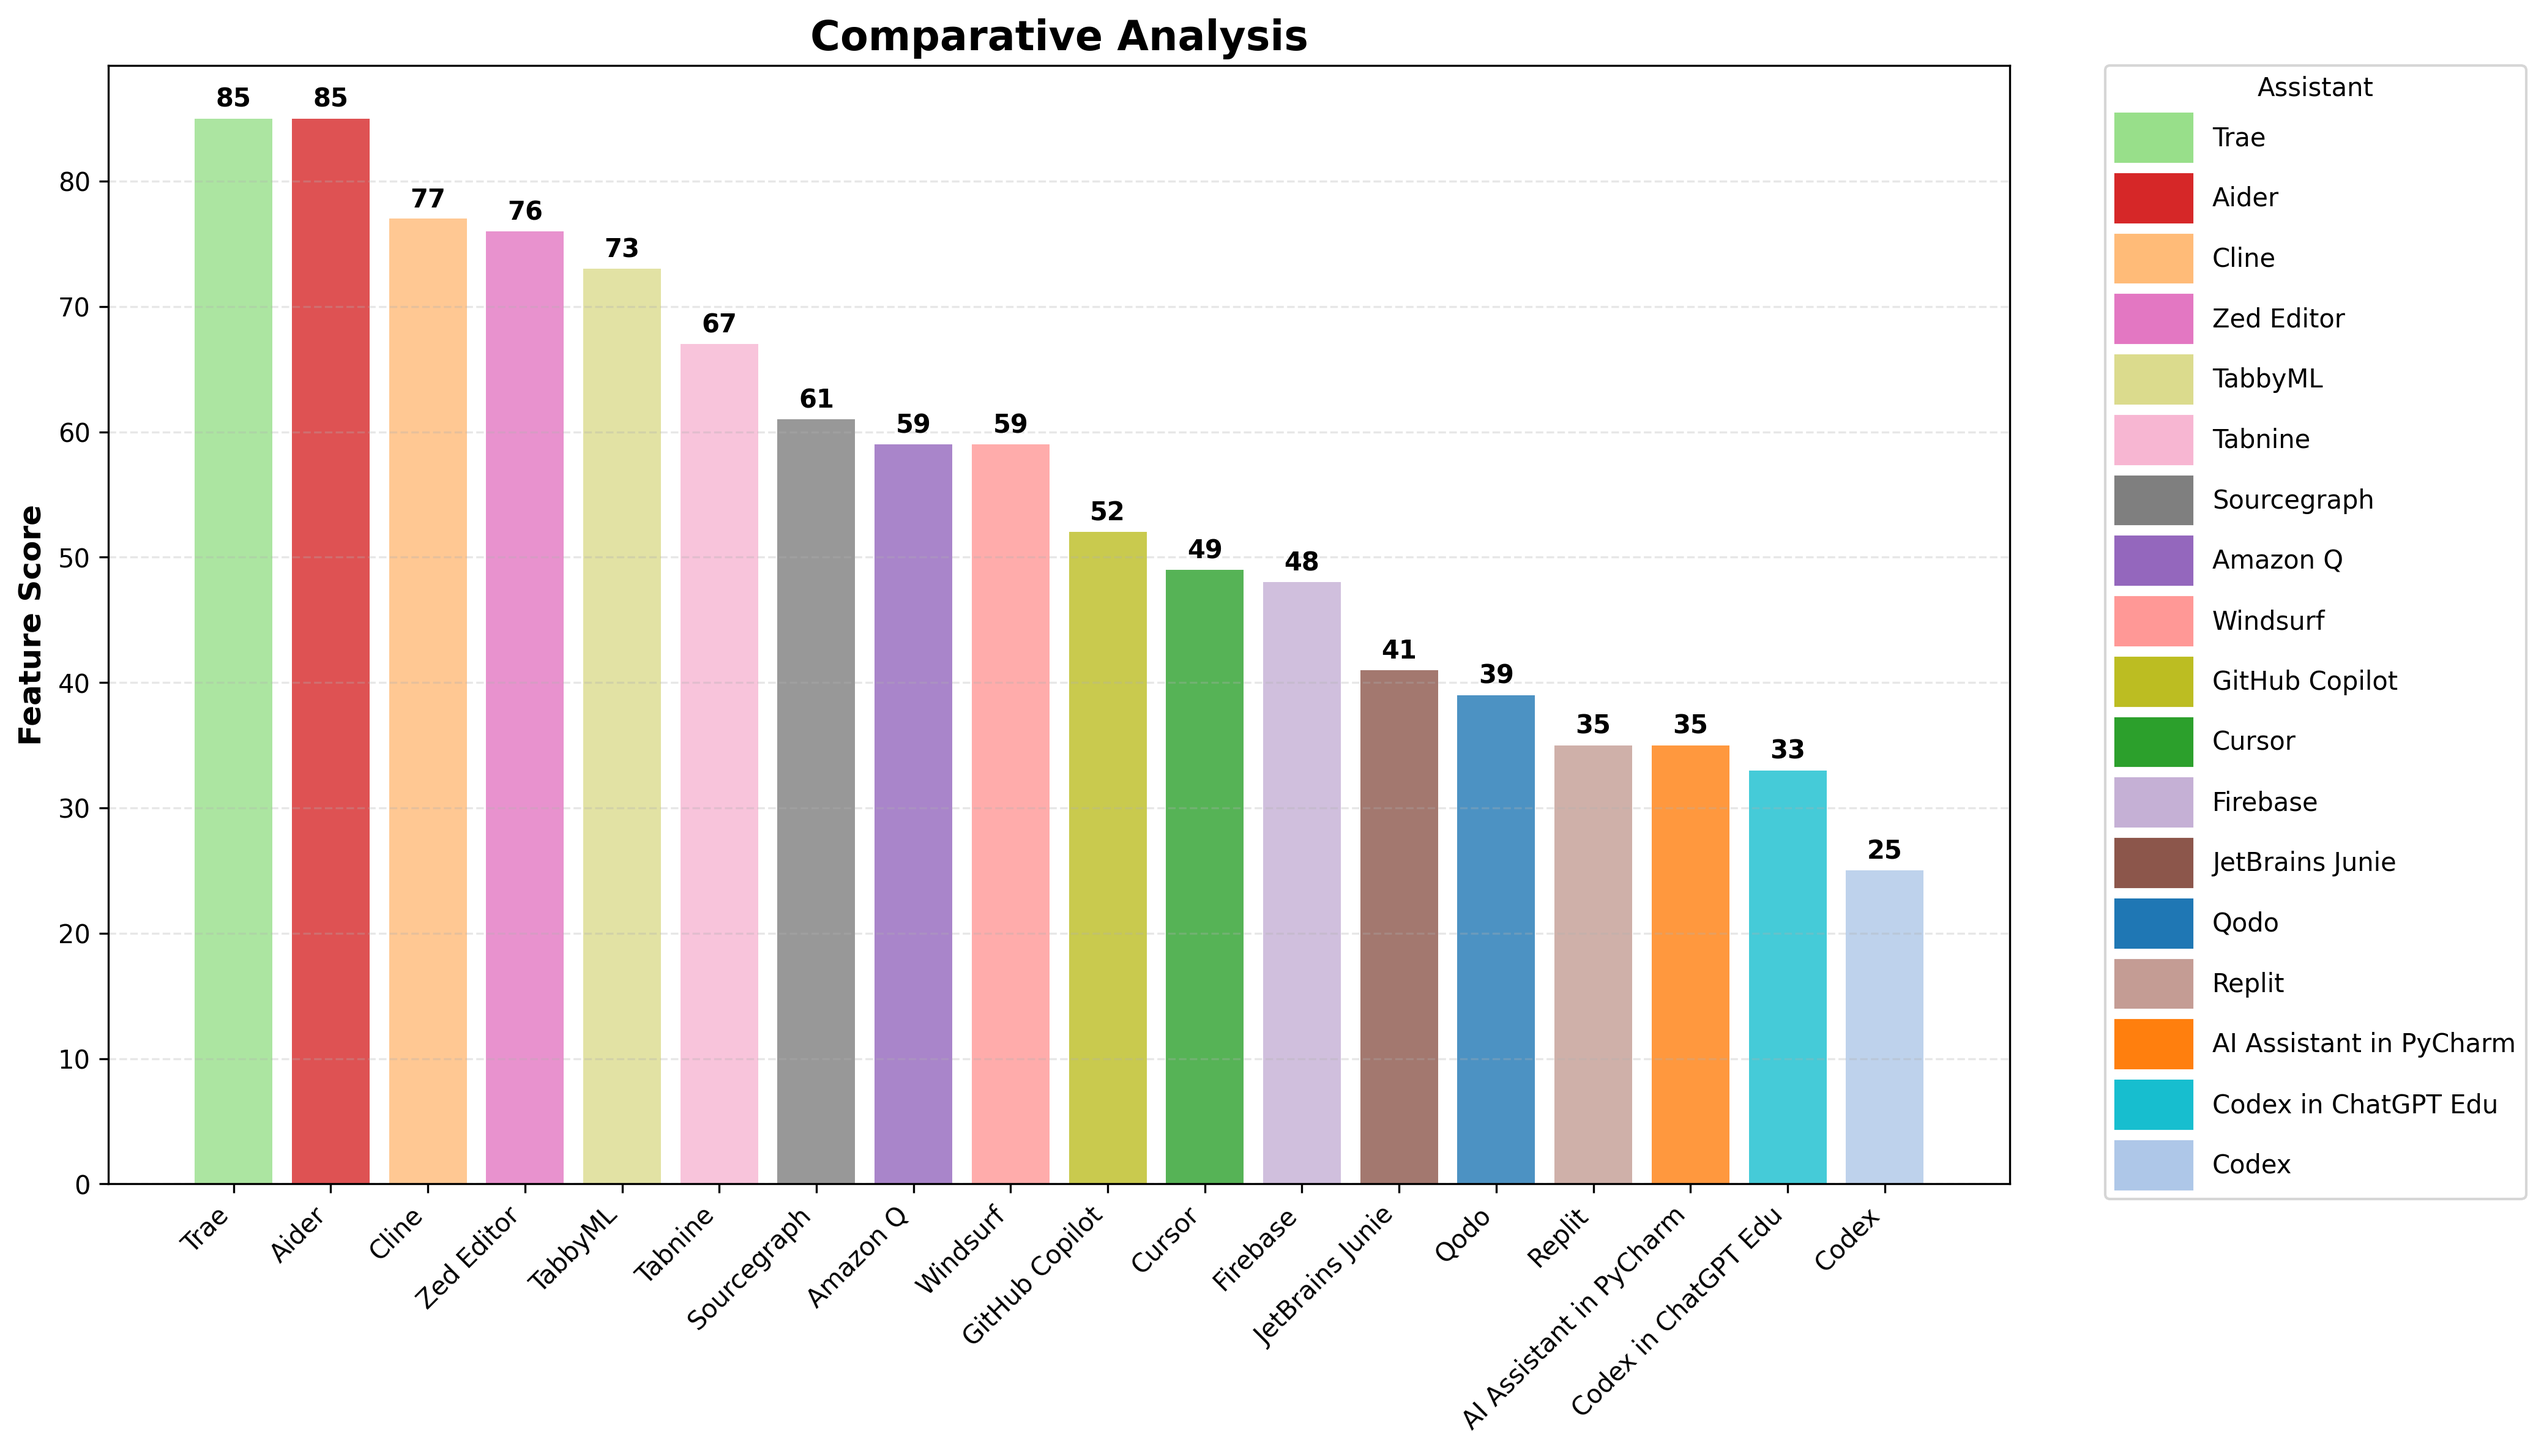
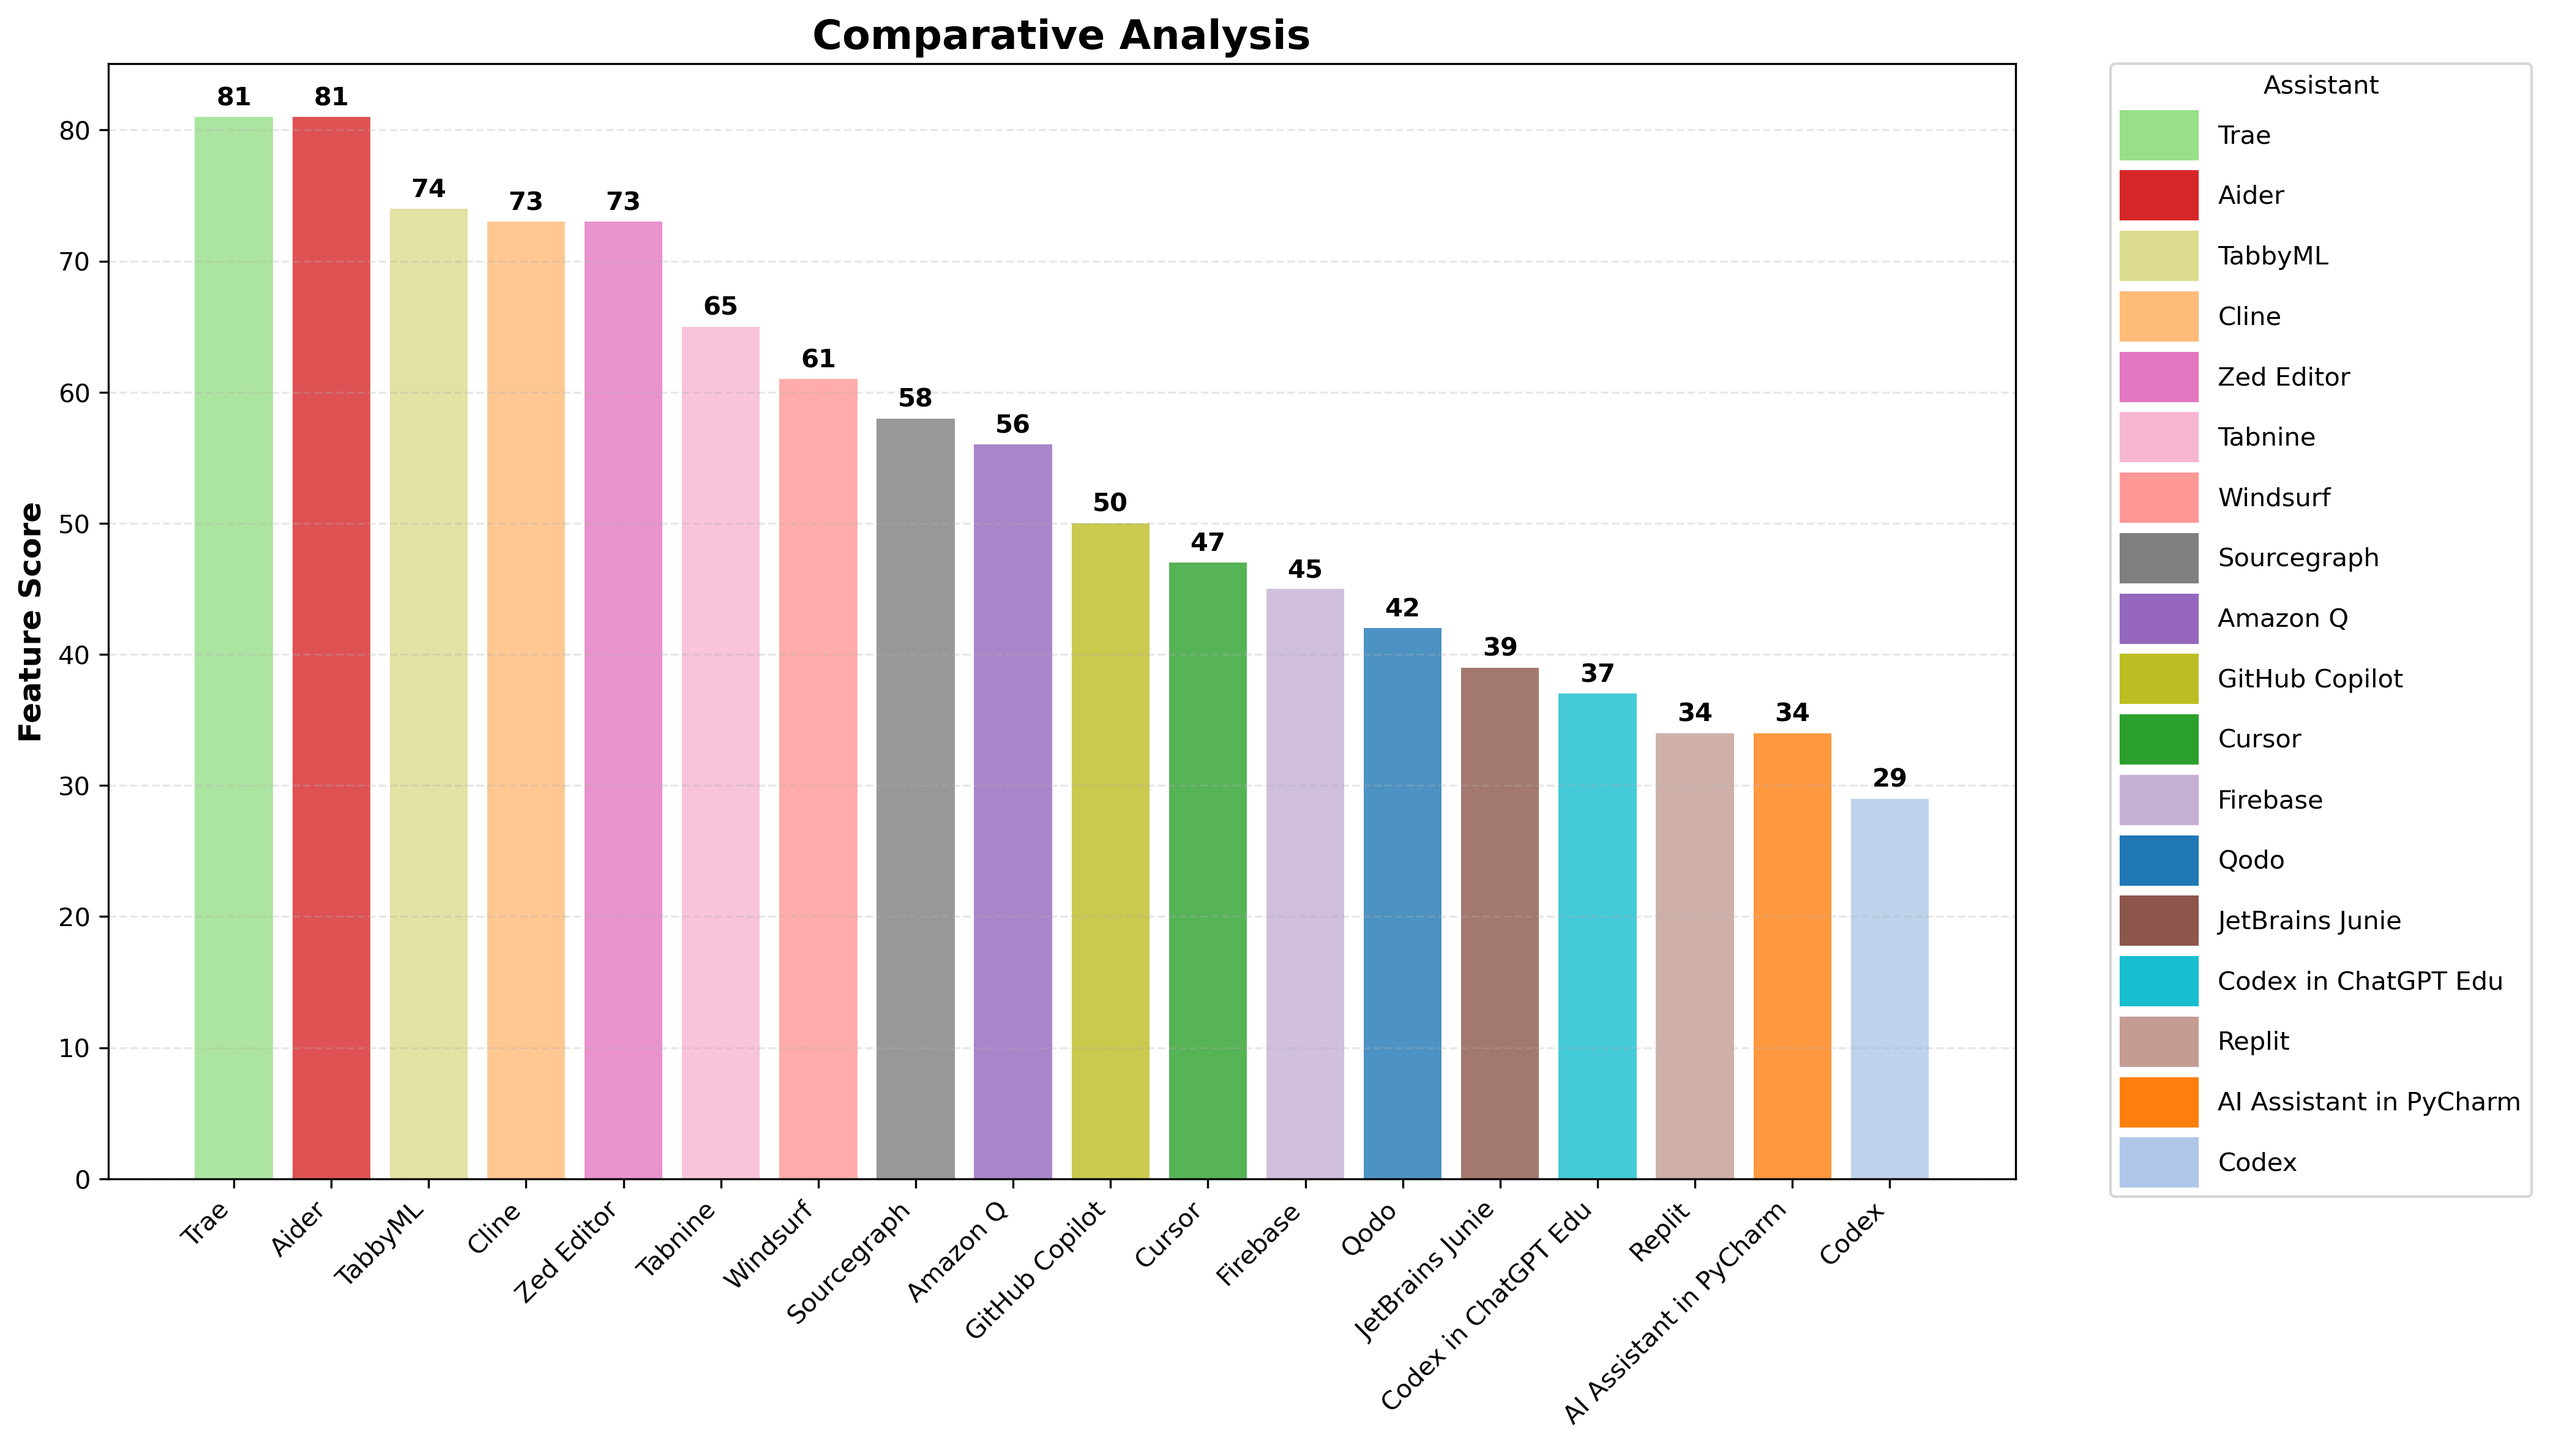
backend/sdk

diff --git a/generate_feature_plot.py b/generate_feature_plot.py
@@ -21,10 +21,11 @@ def create_feature_plot():
             'Modify Files': 4,
             'Run Commands': 3,
             'Select Context': 3,
+            'Backend/SDK': 3,
             'Multi-IDE': 2,
             'Data Retained': -5,   # awarded when "No"
             'Data Re-used': -8,    # awarded when "No"
-            'IP Checks': 4         # awarded when "Yes" (compliance/IP safety)
+            'IP Checks': 4
         }
 
         # Normalize to 100 total points using absolute values

diff --git a/generate_feature_weights_plot.py b/generate_feature_weights_plot.py
@@ -15,6 +15,7 @@ def create_feature_weights_plot():
         'Modify Files': 4,
         'Run Commands': 3,
         'Select Context': 3,
+        'Backend/SDK': 3,
         'Multi-IDE': 2,
         'Data Retained': -5,   # awarded when "No"
         'Data Re-used': -8,    # awarded when "No"
